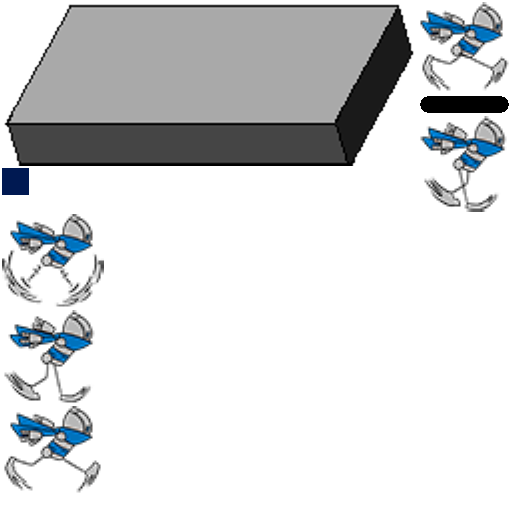
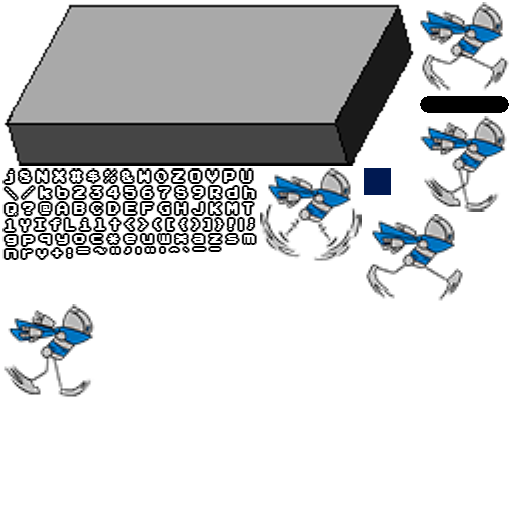
Added new sections and added distance counter. Closes #8

Changed region(s): [[0.0, 0.3125, 0.9062, 0.9688], [0.8438, 0.5312, 0.9062, 0.5938]]

diff --git a/Assets/Scripts/World.cs b/Assets/Scripts/World.cs
@@ -7,6 +7,7 @@ using UnityEngine;
 public class World : FContainer
 {
     Player player;
+    FLabel counter;
 
     WorldSection[] sections = new WorldSection[C.NUM_SECTIONS];
     public float speed { get; set; }
@@ -35,12 +36,16 @@ public class World : FContainer
             worldLayer[i].SetPosition(-Futile.screen.halfWidth, -Futile.screen.halfHeight);
             this.AddChild(worldLayer[i]);
         }
+        counter = new FLabel(C.fontOne, "Distance: 0ft");
+        counter.y = Futile.screen.halfHeight - 50;
+        this.AddChild(counter);
     }
 
     public float getXScroll()
     {
         return worldLayer[0].x;
     }
+
     public bool IsOnFloor(float x, int level)
     {
         for (int i = 0; i < sections.Length; i++)
@@ -49,11 +54,14 @@ public class World : FContainer
         return false;
     }
 
+    private float distance = 0;
     private int sectionInd = 0;
     private void Update()
     {
         for (int i = 0; i < C.SECTION_ROWS; i++)
             worldLayer[i].x -= speed * Time.deltaTime;
+        distance += (speed * Time.deltaTime) * (6/C.floorWidth);
+        counter.text = "Distance: " + distance.ToString("0.00") + "ft";
         float totalSectionWidth = C.SECTION_SIZE * C.floorWidth;
 
         if (worldLayer[0].x + Futile.screen.halfWidth + 200 < -totalSectionWidth)

diff --git a/Assets/Scripts/GameScript.cs b/Assets/Scripts/GameScript.cs
@@ -18,6 +18,8 @@ public class GameScript : MonoBehaviour {
 
         Futile.atlasManager.LoadAtlas("Atlases/NinjaCircuitAtlas");
 
+        Futile.atlasManager.LoadFont(C.fontOne, "pressStart2P_0", "Atlases/pressStart2P", 0,0);
+
         World world = new World();
         Futile.stage.AddChild(world);
         Go.to(world, 1.0f, new TweenConfig().floatProp("speed", 600f).setEaseType(EaseType.QuadIn));

diff --git a/Assets/Scripts/Constants/C.cs b/Assets/Scripts/Constants/C.cs
@@ -16,4 +16,6 @@ public class C
 
     public const int NUM_SECTIONS = 3;
     public const bool createTilemapSprites = false;
+
+    public const string fontOne = "fontOne";
 }
